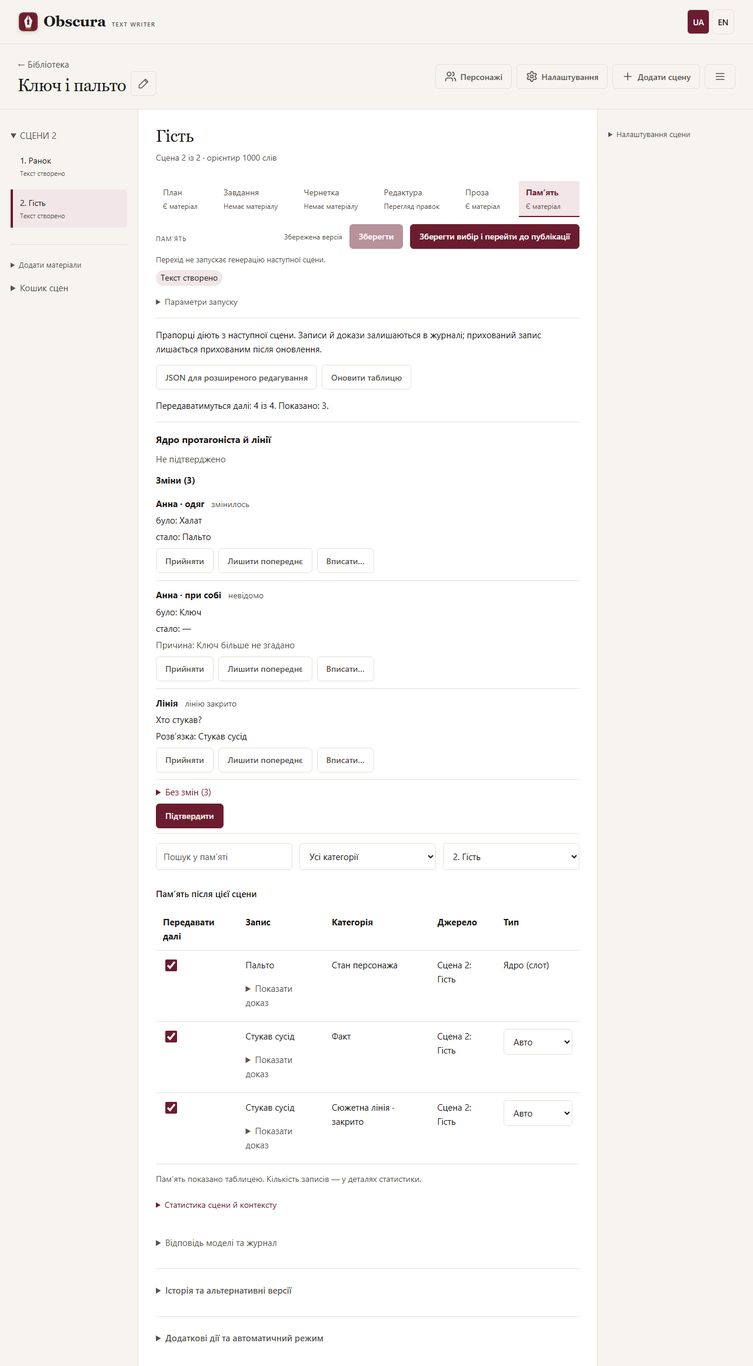
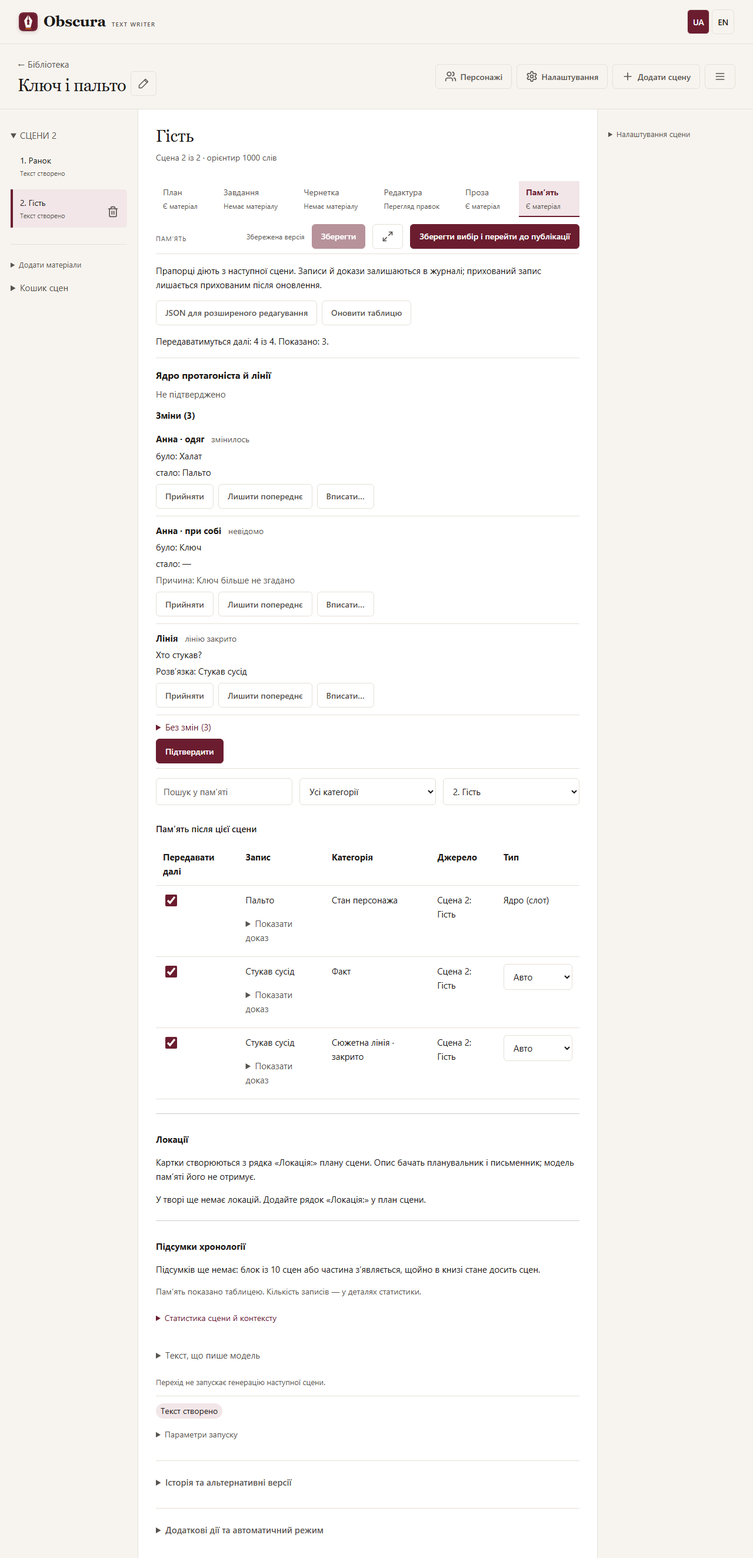
fix(locations): дерево й підказки через злиття, оновлення сторінки після запису (#67)
За крос-рев'ю:
- дерево панелі й підказки враховують кінцеву ціль злиття (ланцюжок А→Б→В, батько, злитий у вкладену картку);
- після запису локацій, типу запису чи підсумку сторінка перечитує стан твору; чиста таблиця пам'яті перечитується,
  коли ревізія твору змінилася (локації рядків, актуальність, ревізія для типів); story-revision.js прибрано.

diff --git a/src/storygen/web/static/memory-table.js b/src/storygen/web/static/memory-table.js
@@ -2,7 +2,6 @@ import {confirmDialog} from './dialogs.js';
 import {createTextEditor} from './text-editor.js';
 import {installCoreReview,confirmUnsaved} from './core-review.js';
 import {live,t,msg,labelEntries,getLocale,uiText,uiAttr,uiHTML,diagnostic} from './i18n.js';
-import {announceRevision,followRevision} from './story-revision.js';
 export function installMemoryTable({state,api,json,notice,refresh,loadBuffer}){
   const panel=document.querySelector('#memory-view');
   if(!panel)return {active:()=>false,save:async()=>{}};
@@ -53,7 +52,6 @@ export function installMemoryTable({state,api,json,notice,refresh,loadBuffer}){
     const text=latest.heads.memory?(await api(`/api/versions/${latest.heads.memory}`)).text:'';
     if(state.scene?.id===sceneId&&!state.dirty)loadBuffer(latest,'memory',text);
   }
-  followRevision(()=>data?.story_revision!=null?{storyId:data.scene.story_id,get:()=>data.story_revision,set:value=>{data.story_revision=value}}:null);
   const coreReview=installCoreReview({container:reviewBox,api,json,notice,refresh:reloadAfterReview});
   state.coreReview={dirty:coreReview.dirty,discard:coreReview.discard};
   let key=null,data=null,pending={},advanced=false,loading=false,rawText='',loadedSceneId=null,loadedMemoryId=null;
@@ -87,7 +85,7 @@ export function installMemoryTable({state,api,json,notice,refresh,loadBuffer}){
       const snapshot=data,captured=currentKey(),kind=select.value||null;kindBusy=true;draw();
       try{
         const story=await api(`/api/stories/${snapshot.scene.story_id}/memory-kind`,json('PUT',{claim_id:row.claim_id,kind,expected_revision:snapshot.story_revision,scene_id:snapshot.scene.id}));
-        snapshot.story_revision=story.revision;announceRevision(snapshot.scene.story_id,story.revision);row.kind=kind;notice(t('memory.kind_saved'));
+        snapshot.story_revision=story.revision;row.kind=kind;notice(t('memory.kind_saved'));void refresh();
       }catch(error){
         notice(error.message,'error');
         if(currentKey()===captured&&!state.dirty){kindBusy=false;void load();return;}
@@ -141,7 +139,11 @@ export function installMemoryTable({state,api,json,notice,refresh,loadBuffer}){
     if(JSON.stringify(scenes().map(scene=>[scene.id,scene.position,scene.title]))!==sceneListKey){sceneOptions();draw();}
     controls();
     const editingSameJson=advanced&&state.scene.id===loadedSceneId&&state.scene.heads.memory===loadedMemoryId;
-    if(currentKey()!==key&&!editingSameJson)void load();
+    // MEMORY-LOCATIONS-S07: a story-level change (locations, summaries, settings) moved the story revision; reload the
+    // clean table so its locations, freshness and the revision for type marks are current.
+    const storyMoved=data&&!advanced&&!state.dirty&&!loading&&!kindBusy&&state.view?.story?.revision!=null
+      &&data.story_revision!=null&&state.view.story.revision!==data.story_revision;
+    if((currentKey()!==key&&!editingSameJson)||storyMoved)void load();
   }
   toggle.onclick=async()=>{
     if(state.saving||loading)return;

diff --git a/src/storygen/web/static/locations.js b/src/storygen/web/static/locations.js
@@ -1,10 +1,17 @@
 // MEMORY-LOCATIONS-S07: rows of the «Locations» panel from GET /api/stories/{id}/locations (pure).
-// Nested cards follow their parent; a merged card is shown under its target and can only be split back.
+// Nested cards follow their parent; a merged card is shown under its final target and can only be split back.
+// Parents and targets are followed through merges, so a chain А→Б→В or a parent merged into its own child keeps the tree.
 export function locationRows(data){
-  const cards=data?.locations||[],known=new Set(cards.map(c=>c.id)),rows=[],seen=new Set();
+  const cards=data?.locations||[],byId=new Map(cards.map(c=>[c.id,c])),rows=[],seen=new Set();
+  const canonical=id=>{const chain=new Set();while(id&&byId.get(id)?.merged_into&&!chain.has(id)){chain.add(id);id=byId.get(id).merged_into}return id};
+  // Where a card hangs: a merged card under its final target, an unmerged one under its parent's final target.
+  const home=card=>{
+    const place=card.merged_into?canonical(card.id):card.parent_id?canonical(card.parent_id):null;
+    return place&&place!==card.id&&byId.has(place)?place:null;
+  };
   const under=id=>[
-    ...cards.filter(c=>!c.merged_into&&c.parent_id===id),
-    ...cards.filter(c=>c.merged_into===id),
+    ...cards.filter(c=>!c.merged_into&&home(c)===id),
+    ...cards.filter(c=>c.merged_into&&home(c)===id),
   ];
   const visit=(card,depth)=>{
     if(seen.has(card.id))return;seen.add(card.id);
@@ -14,7 +21,7 @@ export function locationRows(data){
       canMerge:!merged,canSplit:merged,editable:!merged});
     for(const child of under(card.id))visit(child,depth+1);
   };
-  for(const card of cards)if(!card.merged_into&&(!card.parent_id||!known.has(card.parent_id)))visit(card,0);
+  for(const card of cards)if(!card.merged_into&&!home(card))visit(card,0);
   for(const card of cards)visit(card,0);  // anything a broken chain left out
   return rows;
 }

diff --git a/src/storygen/web/static/locations-panel.js b/src/storygen/web/static/locations-panel.js
@@ -4,10 +4,9 @@
 // writer. Every change is CAS on the story revision; a refused save keeps the typed description.
 import {t,msg,uiText,uiAttr,diagnostic} from './i18n.js';
 import {api,json,notice} from './api.js';
-import {state} from './editor.js';
+import {state,refresh} from './editor.js';
 import {confirmDialog} from './dialogs.js';
 import {locationRows,mergeTargets,suggestionRows} from './locations.js';
-import {announceRevision,followRevision} from './story-revision.js';
 
 let data=null,storyId=null,choosing=null,busy=false;
 const drafts=new Map();  // card id -> typed description not saved yet
@@ -93,8 +92,10 @@ async function change(path,method,body,done){
   const before=data.story_revision;busy=true;draw();
   try{
     data=await api(`/api/stories/${state.storyId}/locations${path}`,json(method,{...body,expected_revision:before}));
-    announceRevision(state.storyId,data.story_revision);
-    notice(msg(done));return true;
+    notice(msg(done));
+    // The story revision moved and versions may be outdated: the page state, scene statuses and the memory table reload.
+    void refresh();
+    return true;
   }catch(e){notice(diagnostic(e.message),'error');await load();return false}  // drafts survive the reload
   finally{busy=false;draw()}
 }
@@ -110,6 +111,5 @@ async function save(row,text){
   draw();
 }
 
-followRevision(()=>data&&storyId===state.storyId?{storyId,get:()=>data.story_revision,set:value=>{data.story_revision=value}}:null);
 document.addEventListener('scene-selected',load);
 document.addEventListener('story-refreshed',load);

diff --git a/src/storygen/web/static/timeline-summaries-panel.js b/src/storygen/web/static/timeline-summaries-panel.js
@@ -4,10 +4,9 @@
 import {t,msg,uiText,diagnostic} from './i18n.js';
 import {api,json,notice} from './api.js';
 import {createTextEditor} from './text-editor.js';
-import {state} from './editor.js';
+import {state,refresh} from './editor.js';
 import {confirmDialog} from './dialogs.js';
 import {summaryRows} from './timeline-summaries.js';
-import {announceRevision,followRevision} from './story-revision.js';
 
 const FINISHED=new Set(['completed','failed','cancelled','needs_review','alternative']);
 let data=null,editing=null,storyId=null;
@@ -89,10 +88,9 @@ async function save(row){
   try{
     data=await api(`/api/stories/${state.storyId}/timeline-summaries/${encodeURIComponent(row.key)}`,
       json('PUT',{text:editing.text,expected_version_id:editing.versionId,expected_revision:data.story_revision}));
-    announceRevision(state.storyId,data.story_revision);editing=null;notice(msg('summaries.saved'));draw();
+    editing=null;notice(msg('summaries.saved'));draw();void refresh();
   }catch(e){notice(diagnostic(e.message),'error')}  // the buffer stays in `editing`
 }
 
-followRevision(()=>data&&storyId===state.storyId?{storyId,get:()=>data.story_revision,set:value=>{data.story_revision=value}}:null);
 document.addEventListener('scene-selected',load);
 document.addEventListener('story-refreshed',load);

diff --git a/tests/web/test_locations_api.py b/tests/web/test_locations_api.py
@@ -142,3 +142,15 @@ def test_writes_through_the_api_make_shown_versions_stale(tmp_path):
     client.post(f'{base(story)}/{lid(story, "Квартира Джоржа")}/merge',
                 json={'into': lid(story, 'Квартира Джорджа', 'вітальня'), 'expected_revision': data['story_revision']})
     assert client.get(f'/api/versions/{memory.id}').json()['version']['stale'] is True
+
+
+@pytest.mark.req('MEMORY-LOCATIONS')
+def test_no_suggestion_between_a_card_and_its_ancestor_through_a_merge(tmp_path):
+    client, repo, story, *_ = setup(tmp_path)
+    repo.create_scene(story.id, SceneCreate(title='Сад', beats='Локація: Маєток', character_ids=[]))
+    repo.create_scene(story.id, SceneCreate(title='Зала', beats='Локація: Старий маєток / вітальня', character_ids=[]))
+    story = repo.get_story(story.id)
+    old, manor, room = lid(story, 'Старий маєток'), lid(story, 'Маєток'), lid(story, 'Старий маєток', 'вітальня')
+    data = client.post(f'{base(story)}/{old}/merge', json={'into': manor, 'expected_revision': story.revision}).json()
+    pairs = {frozenset((s['a'], s['b'])) for s in data['suggestions']}
+    assert frozenset((manor, room)) not in pairs

diff --git a/src/storygen/storage/locations.py b/src/storygen/storage/locations.py
@@ -86,10 +86,16 @@ def suggestions(db, story_id: str) -> list[tuple[str,str]]:
     """Pairs of unmerged cards that look alike and were not dismissed, each as (first created, second)."""
     every=load_locations(db,story_id);cards=[c for c in every.values() if not c.merged_into]
     dismissed={(r[0],r[1]) for r in db.execute('SELECT a,b FROM location_dismissals WHERE story_id=?',(story_id,))}
+    merged={c.id:c.merged_into for c in every.values()}
     def ancestors(card):
-        seen=set()
-        while card.parent_id and card.parent_id not in seen and card.parent_id in every:
-            seen.add(card.parent_id);card=every[card.parent_id]
+        # Followed through merges: a parent merged elsewhere makes its target an ancestor too.
+        seen=set();parent=card.parent_id
+        while parent:
+            for id in (parent,canonical(merged,parent)):
+                if id in every:seen.add(id)
+            parent=canonical(merged,parent)
+            if parent not in every or every[parent].parent_id in seen:break
+            parent=every[parent].parent_id
         return seen
     lineage={c.id:ancestors(c) for c in cards}
     found=[]

diff --git a/tests/web/test_locations_ui.py b/tests/web/test_locations_ui.py
@@ -11,7 +11,7 @@ STATIC = ROOT / 'src/storygen/web/static'
 
 
 @pytest.mark.req('MEMORY-LOCATIONS')
-def test_panel_rows_and_shared_revision():
+def test_panel_rows():
     node = shutil.which('node')
     if not node:
         pytest.skip('Node потрібен для перевірки ES module')

diff --git a/SPEC.MD b/SPEC.MD
@@ -1010,14 +1010,14 @@ brief, draft, повної редактури й rewrite SHALL містити о
 
 Технічний опис (дизайн `docs/superpowers/specs/2026-11/2026-11-22-memory-locations-design.md`, PR 1 — ядро; PR 2 — API, панель «Локації» й таблиця пам’яті).
 - **Розбір** (`storygen/locations.py`, без IO). Роздільники значення: `,`, `;`, `→` і цілі слова `потім`, `далі`, `згодом`, `then`, `later` (без регістру); «і», «та», «and» — частина назви. ` / ` (слеш з будь-якими пробілами) вкладає: `А / Б` дає картки `А` і `А / Б` з батьком `А`. Ключ тотожності — нормалізований повний шлях (NFC, нижній регістр, стиснуті пробіли, без лапок по краях і кінцевої `.!?…:`); `location_id = 'loc_' + sha256(story_id + '\n' + key)[:16]`. Повтор за ключем у рядку відкидається; порожні частини ігноруються.
-- **Дані.** Міграція `007_locations.sql`: `story_locations(id, story_id, payload)` і `location_dismissals(story_id, a, b)`; `SCHEMA_VERSION = 7`. `StoryLocation{id, story_id, path (перше написання), key, parent_id, merged_into, description (≤ 2000), created_at}`. Міграція в одній транзакції проходить усі сцени, також у кошику, і заповнює картки та `Scene.location_ids` з `beats`, не змінюючи ревізій і не позначаючи версій застарілими. `Scene.location_ids` (за замовчуванням порожній) записує лише `storage/scene_metadata.py::apply_description` під час збереження чи створення плану; рядка немає або він порожній — `[]`, а створені картки лишаються. Зміна `location_ids` дає ту саму пряму застарілість версій без знімка й `invalidate_in_transaction`, що й зміна складу. `storage/locations.py`: `ensure_locations`, `merge_location` (без циклів і самозлиття), `split_location`, `set_description`, `dismiss_pair`, `suggestions` (схожі незлиті пари без відхилених і без пар предок–нащадок, бо вкладене місце ділить слова з тим, що його містить: той самий останній елемент шляху, слова однієї назви в іншій або відстань редагування ≤ 20 %). Цілісність (`storage/location_checks.py`): недійсний payload картки й посилання сцени на відсутню картку (`location_unknown`).
+- **Дані.** Міграція `007_locations.sql`: `story_locations(id, story_id, payload)` і `location_dismissals(story_id, a, b)`; `SCHEMA_VERSION = 7`. `StoryLocation{id, story_id, path (перше написання), key, parent_id, merged_into, description (≤ 2000), created_at}`. Міграція в одній транзакції проходить усі сцени, також у кошику, і заповнює картки та `Scene.location_ids` з `beats`, не змінюючи ревізій і не позначаючи версій застарілими. `Scene.location_ids` (за замовчуванням порожній) записує лише `storage/scene_metadata.py::apply_description` під час збереження чи створення плану; рядка немає або він порожній — `[]`, а створені картки лишаються. Зміна `location_ids` дає ту саму пряму застарілість версій без знімка й `invalidate_in_transaction`, що й зміна складу. `storage/locations.py`: `ensure_locations`, `merge_location` (без циклів і самозлиття), `split_location`, `set_description`, `dismiss_pair`, `suggestions` (схожі незлиті пари без відхилених і без пар предок–нащадок — предків рахують і через злиття батьків, — бо вкладене місце ділить слова з тим, що його містить: той самий останній елемент шляху, слова однієї назви в іншій або відстань редагування ≤ 20 %). Цілісність (`storage/location_checks.py`): недійсний payload картки й посилання сцени на відсутню картку (`location_unknown`).
 - **Околиця сцени** — ID карток, що після злиттів (`canonical` за `merged_into`, цикл зупиняється) є локаціями сцени, їхніми предками чи нащадками, разом з усіма ID, злитими в них (`locations.neighbourhood`, `storage/locations.py::scene_neighbourhood`).
 - **Контекст письма.** `ContextView.locations` (і спільний знімок) містить картки твору. Розділ «ЛОКАЦІЇ СЦЕНИ» / «SCENE LOCATIONS» після карток персонажів у brief, draft, edit повним переписуванням і rewrite (і в MCP writing-context): рядок «— шлях[: опис]» для кожної локації сцени та її предків, предки першими, злита картка — як цільова. MCP writing-context має поле `locations: [{path, description}]` лише для сцени з локаціями, тож воно входить у `context_fingerprint`, а відбиток сцени без локацій не змінюється. Етап memory і edit латками чи diff розділу не мають; сцена без локацій — запит байт у байт як раніше.
 - **Знімок залежностей.** Селектори `scene/location_ids` (етап memory в режимі `evidence_delta`, пишеться завжди: memory не залежить від голови плану своєї сцени), `scene/location_neighbourhood` (memory, brief, draft, prose_edit, author_text, author_rewrite, а також знімок ручного збереження `_manual_snapshot` — як `author_text`, узгоджено з базовим знімком прийняття; лише непорожня околиця) і `scene/location_context` (словник шлях → опис показаних локацій; brief, draft, prose_edit, author_rewrite і знімок чернетки MCP `_manual_snapshot(..., day_selectors=True)`, бо writing-context показує описи; лише непорожній). Відсутній у старому знімку селектор не порівнюється, тож міграція нічого не робить застарілим. brief/draft бачать зміну рядка «Локація:» через голову плану.
 - **Журнал.** `MemoryEvent.location_ids` — поле запису: порожнє не серіалізується (старі журнали й версії байт у байт), до ID запису й ключа дубліката не входить; непорожнє робить журнал v3. Зміни (`update`, `retire`, закриття лінії, перехід слота в `unknown`, рішення ядра автором, злиття арок) несуть `location_ids` свого запису, а `replay_memory` відхиляє зміну з іншими локаціями, а також повтор чи порожній ID локації («Некоректні локації пам’яті»). Ручне збереження бере для зміни без поля локації її запису, а явну іншу локацію відхиляє; факт розв’язки лінії (моделлю чи автором в огляді ядра) і стан атмосфери після переходу слота в `unknown` успадковують локації свого запису.
 - **wire v4.** `schema_bounds_v4(..., location_ids)` пише `bounds.location_ids` (канонічні локації сцени та їхні предки) лише для сцени з локаціями; тоді схема має обов’язкове `location_ids` з enum дозволених у додаваннях усіх чотирьох категорій, а запит — розділ «ДОЗВОЛЕНІ LOCATION_IDS…» з інструкцією й словником ID → шлях. Модель відповіді має `location_ids` необов’язковим (старі відповіді валідні). ID поза дозволеними чи повтор — `location_unknown`, відповідь відхиляється. Вбудовані промпти й версія контракту `/4` не змінюються: інструкція — у самому розділі.
 - **API** (`web/routes_locations.py`, `storage/locations.py::locations_view`/`change_locations`). `GET /api/stories/{id}/locations` — `{story_revision, locations[{id, path, parent_id, merged_into, target_path (шлях кінцевої цілі злиття), description, scenes[{id, position, title}]}], suggestions[{a, b, a_path, b_path}]}`; `scenes` — активні сцени, чиї локації після злиттів дорівнюють картці (сцени вкладених карток — у своїх картках, кошик не показується). Зміни приймають `expected_revision` твору: `POST …/locations/{lid}/merge` (`into`), `POST …/locations/{lid}/split`, `POST …/locations/dismiss` (`a`, `b`), `PUT …/locations/{lid}` (`description` ≤ 2000, інакше 422). Кожна в `BEGIN IMMEDIATE` перевіряє ревізію (інакше `RevisionConflict` → 409 без змін), застосовує дію сховища (невідома картка, самозлиття чи цикл → 400) і збільшує ревізію твору на 1; відповідь — свіжий перелік. Тексти помилок мають ключі `locations.error.*` у каталозі uk/en.
-- **Панель «Локації»** (`static/locations-panel.js`, рядки — `static/locations.js`): розділ рівня твору в панелі пам’яті сцени, після «Підсумків хронології» (права панель лишається лише для розділів сцени, [WORKSPACE-TOOLS-S02](#workspace-tools-s02)). Дерево карток: вкладені — під батьком, злита — під ціллю з «Злито в «…»» і кнопкою «Розділити»; для незлитої — сцени, поле опису з лічильником «N / 2000» і «Зберегти опис», «Злити в…» з вибором цілі серед незлитих карток. Підказки «Схожі назви»: пізніша картка зливається в ту, що з’явилася першою, після підтвердження; «Не схожі» відхиляє пару. Відхилене збереження опису лишає набраний текст. Панелі однієї вкладки, що тримають ревізію твору для CAS (позначки типу запису, підсумки хронології, локації), повідомляють одна одній про свій запис (`static/story-revision.js`); інша панель переходить на нову ревізію лише тоді, коли цей запис — єдина зміна з її завантаження, тож зміна з іншої вкладки лишається конфліктом.
+- **Панель «Локації»** (`static/locations-panel.js`, рядки — `static/locations.js`): розділ рівня твору в панелі пам’яті сцени, після «Підсумків хронології» (права панель лишається лише для розділів сцени, [WORKSPACE-TOOLS-S02](#workspace-tools-s02)). Дерево карток (батьки й цілі — після злиттів, тож ланцюжок А→Б→В і батько, злитий у власну вкладену картку, дерева не перевертають): вкладені — під батьком, злита — під кінцевою ціллю з «Злито в «…»» і кнопкою «Розділити»; для незлитої — сцени, поле опису з лічильником «N / 2000» і «Зберегти опис», «Злити в…» з вибором цілі серед незлитих карток. Підказки «Схожі назви»: пізніша картка зливається в ту, що з’явилася першою, після підтвердження; «Не схожі» відхиляє пару. Відхилене збереження опису лишає набраний текст. Після запису локацій, типу запису чи виправлення підсумку сторінка перечитує стан твору (`editor.refresh`): оновлюються стани сцен і ревізія для дій робочого простору, а панелі рівня твору перечитують свої дані; чиста таблиця пам’яті перечитується, коли ревізія твору в стані сторінки відрізняється від її власної, тож її локації, актуальність і ревізія для типів записів — поточні. Зміна з іншої вкладки лишається конфліктом, доки сторінка її не перечитала.
 - **Таблиця пам’яті.** Рядок `memory-view` має `locations` — шляхи канонічних карток запису (злита — як ціль); таблиця показує «Локації: …» під цитатою, пошук враховує шляхи. MCP `get_scene_text(material=memory)` поля не має (`MEMORY_FIELDS`).
 - **Відбір і проєкція.** `memory_items(..., place)` не відкидає стан відсутнього персонажа з локацією в околиці; `MemoryItem.location_ids`. Шар `place` у `LAYERS` після `present`: стан, лінія чи факт з локацією в околиці, якщо запис не потрапив вище (`core`, `hero_recent` для свіжого стану героя, `threads` для лінії, що згадує учасника, `present` для стану учасника); хронологія лишається в `timeline`. `narrow_catalog(..., place)` лишає стани й факти околиці.
 

diff --git a/docs/superpowers/plans/2026-10-20-remediation-progress.md b/docs/superpowers/plans/2026-10-20-remediation-progress.md
@@ -2538,6 +2538,6 @@ Inherited whitespace у ліцензійному тексті tokenizers із ma
 ## 2026-11-22 — #67: локації, PR 2 — API, панель «Локації», таблиця пам'яті й сайт (MEMORY-LOCATIONS-S07)
 
 - План: [2026-11-22-memory-locations-ui.md](2026-11-22-memory-locations-ui.md); PR 1 злито (#257). Гілка `claude/memory-locations-ui`.
-- Реалізовано: API `/api/stories/{id}/locations` (перелік зі сценами й підказками, злиття, розділення, «не схожі», опис) з CAS за ревізією твору; розділ «Локації» в панелі пам'яті сцени; рядки таблиці пам'яті показують локації; спільна ревізія твору між панелями вкладки (`story-revision.js`); знімок панелі в `capture_screenshots.py`; сайт «Пам'ять», «Перший твір», «MCP» uk/en.
-- Рішення під час реалізації: (1) панель — розділ рівня твору в панелі пам'яті сцени, як «Підсумки хронології»: права панель за WORKSPACE-TOOLS містить лише розділи сцени (спроба розмістити її там зламала `test_side_panel_holds_only_scene_sections`); (2) підказки не пропонують пари предок–нащадок — дефект ядра PR 1, вкладене місце ділить слова з тим, що його містить; (3) сцени картки — лише ті, що називають її прямо (злиття враховано), вкладені — у своїх картках; (4) локації рядків пам'яті не йдуть у MCP `get_scene_text` (`MEMORY_FIELDS` незмінний); (5) запис однієї панелі не робить наступний запис іншої хибним конфліктом, але зміна з іншої вкладки лишається конфліктом.
+- Реалізовано: API `/api/stories/{id}/locations` (перелік зі сценами й підказками, злиття, розділення, «не схожі», опис) з CAS за ревізією твору; розділ «Локації» в панелі пам'яті сцени; рядки таблиці пам'яті показують локації; після запису панелі сторінка перечитує стан твору (`editor.refresh`), а чиста таблиця пам'яті — свої дані; знімок панелі в `capture_screenshots.py`; сайт «Пам'ять», «Перший твір», «MCP» uk/en.
+- Рішення під час реалізації: (1) панель — розділ рівня твору в панелі пам'яті сцени, як «Підсумки хронології»: права панель за WORKSPACE-TOOLS містить лише розділи сцени (спроба розмістити її там зламала `test_side_panel_holds_only_scene_sections`); (2) підказки не пропонують пари предок–нащадок — дефект ядра PR 1, вкладене місце ділить слова з тим, що його містить; (3) сцени картки — лише ті, що називають її прямо (злиття враховано), вкладені — у своїх картках; (4) локації рядків пам'яті не йдуть у MCP `get_scene_text` (`MEMORY_FIELDS` незмінний); (5) запис однієї панелі не робить наступний запис іншої хибним конфліктом: після запису сторінка перечитує стан твору (перша спроба — передавання ревізії між панелями — не покривала дій робочого простору, зауваження крос-рев'ю).
 - Предмети (друга частина #67) — окрема спека; #67 лишається відкритим.
